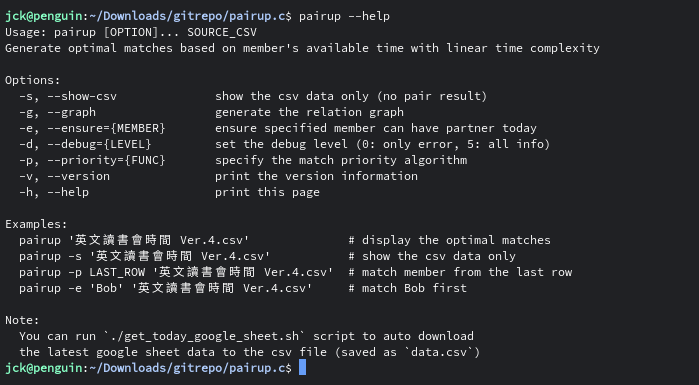
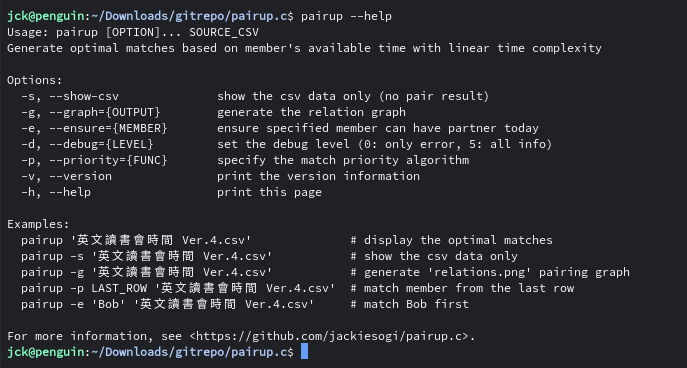
Update thumbnail and help page

diff --git a/src/main.c b/src/main.c
@@ -39,12 +39,11 @@ Options:\n\
 Examples:\n\
   %s '英文讀書會時間 Ver.4.csv'              # display the optimal matches\n\
   %s -s '英文讀書會時間 Ver.4.csv'           # show the csv data only\n\
+  %s -g '英文讀書會時間 Ver.4.csv'           # generate 'relations.png' pairing graph\n\
   %s -p LAST_ROW '英文讀書會時間 Ver.4.csv'  # match member from the last row\n\
   %s -e 'Bob' '英文讀書會時間 Ver.4.csv'     # match Bob first\n\n\
-Note:\n\
-  You can run `./get_today_google_sheet.sh` script to auto download\n\
-  the latest google sheet data to the csv file (saved as `data.csv`)\n\
-", program_name, program_name, program_name, program_name, program_name);
+For more information, see <https://github.com/jackiesogi/pairup.c>.\n\
+", program_name, program_name, program_name, program_name, program_name, program_name);
     }
     exit (status);
 }
